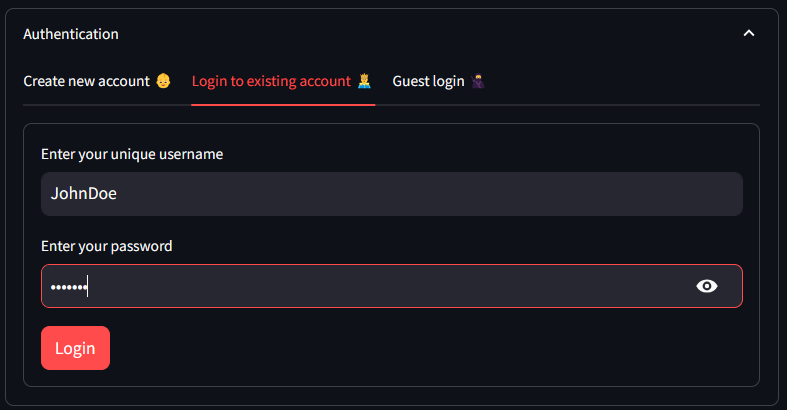
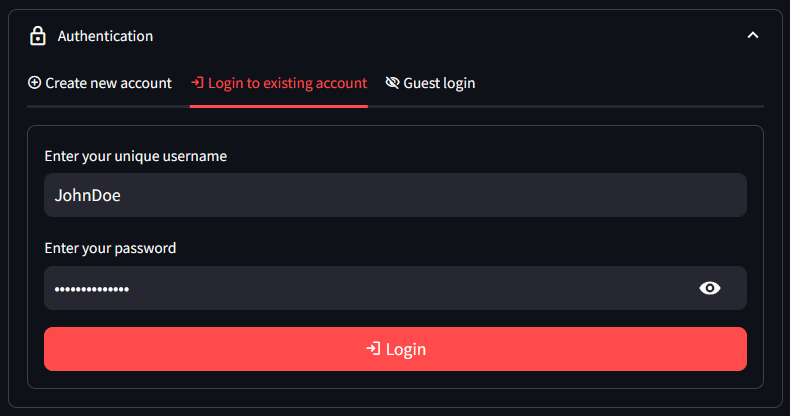
v1.2.0: Removed `*_success_message` params, UI and docstring updates

diff --git a/src/st_login_form/__init__.py b/src/st_login_form/__init__.py
@@ -4,7 +4,7 @@ from st_supabase_connection import SupabaseConnection
 from stqdm import stqdm
 from supabase import Client
 
-__version__ = "1.1.1"
+__version__ = "1.2.0"
 
 
 def validate_password(
@@ -19,8 +19,7 @@ def validate_password(
     return len(password) >= min_length and all(check(password) for check in required_chars)
 
 
-def login_success(message: str, username: str) -> None:
-    st.success(message)
+def login_success(username: str) -> None:
     st.session_state["authenticated"] = True
     st.session_state["username"] = username
 
@@ -45,34 +44,33 @@ class Authenticator(argon2.PasswordHasher):
 def login_form(
     *,
     title: str = "Authentication",
+    icon: str = ":material/lock:",
     user_tablename: str = "users",
     username_col: str = "username",
     password_col: str = "password",
     constrain_password: bool = True,
-    create_title: str = "Create new account :baby: ",
-    login_title: str = "Login to existing account :prince: ",
+    create_title: str = ":material/add_circle: Create new account",
+    login_title: str = ":material/login: Login to existing account",
     allow_guest: bool = True,
     allow_create: bool = True,
-    guest_title: str = "Guest login :ninja: ",
+    guest_title: str = ":material/visibility_off: Guest login",
     create_username_label: str = "Create a unique username",
     create_username_placeholder: str = None,
     create_username_help: str = None,
     create_password_label: str = "Create a password",
     create_password_placeholder: str = None,
-    create_password_help: str = "Password cannot be recovered if lost",
-    create_submit_label: str = "Create account",
-    create_success_message: str = "Account created and logged-in :tada:",
+    create_password_help: str = ":material/warning: Password cannot be recovered if lost",
+    create_submit_label: str = ":material/add_circle: Create account",
     login_username_label: str = "Enter your unique username",
     login_username_placeholder: str = None,
     login_username_help: str = None,
     login_password_label: str = "Enter your password",
     login_password_placeholder: str = None,
     login_password_help: str = None,
-    login_submit_label: str = "Login",
-    login_success_message: str = "Login succeeded :tada:",
-    login_error_message: str = "Wrong username/password :x: ",
-    password_constraint_check_fail_message: str = "Password must contain at least 8 characters, including one uppercase letter, one lowercase letter, one number, and one special character (`@$!%*?&_^#- `).",
-    guest_submit_label: str = "Guest login",
+    login_submit_label: str = ":material/login: Login",
+    login_error_message: str = ":material/lock: Wrong username/password",
+    password_constraint_check_fail_message: str = ":material/warning: Password must contain at least 8 characters, including one uppercase letter, one lowercase letter, one number, and one special character (`@$!%*?&_^#- `).",
+    guest_submit_label: str = ":material/visibility_off: Guest login",
 ) -> Client:
     """Creates a user login form in Streamlit apps.
 
@@ -82,37 +80,47 @@ def login_form(
 
     Arguments:
         title (str): The title of the login form. Default is "Authentication".
+        icon (str): The icon to display next to the title. Default is ":material/lock:".
         user_tablename (str): The name of the table in the database that stores user information. Default is "users".
         username_col (str): The name of the column in the user table that stores usernames. Default is "username".
         password_col (str): The name of the column in the user table that stores passwords. Default is "password".
-        constrain_password (bool): Whether to enforce password constraints (at least 8 characters, including one uppercase letter, one lowercase letter, one number, and one special character (`@$!%*?&_^#- `). Default is True.
-        create_title (str): The title of the create new account tab. Default is "Create new account :baby: ".
-        login_title (str): The title of the login to existing account tab. Default is "Login to existing account :prince: ".
+        constrain_password (bool): Whether to enforce password constraints (at least 8 characters, including one uppercase letter, one lowercase letter, one number, and one special character (`@$!%*?&_^#- `)). Default is True.
+        create_title (str): The title of the create new account tab. Default is ":material/add_circle: Create new account".
+        login_title (str): The title of the login to existing account tab. Default is ":material/login: Login to existing account".
         allow_guest (bool): Whether to allow guest login. Default is True.
         allow_create (bool): Whether to allow creating new accounts. Default is True.
-        guest_title (str): The title of the guest login tab. Default is "Guest login :ninja: ".
+        guest_title (str): The title of the guest login tab. Default is ":material/visibility_off: Guest login".
         create_username_label (str): The label for the create username input field. Default is "Create a unique username".
         create_username_placeholder (str): The placeholder text for the create username input field. Default is None.
         create_username_help (str): The help text for the create username input field. Default is None.
         create_password_label (str): The label for the create password input field. Default is "Create a password".
         create_password_placeholder (str): The placeholder text for the create password input field. Default is None.
-        create_password_help (str): The help text for the create password input field. Default is "Password cannot be recovered if lost".
-        create_submit_label (str): The label for the create account submit button. Default is "Create account".
-        create_success_message (str): The success message displayed after creating a new account. Default is "Account created and logged-in :tada:".
+        create_password_help (str): The help text for the create password input field. Default is ":material/warning: Password cannot be recovered if lost".
+        create_submit_label (str): The label for the create account submit button. Default is ":material/add_circle: Create account".
         login_username_label (str): The label for the login username input field. Default is "Enter your unique username".
         login_username_placeholder (str): The placeholder text for the login username input field. Default is None.
         login_username_help (str): The help text for the login username input field. Default is None.
         login_password_label (str): The label for the login password input field. Default is "Enter your password".
         login_password_placeholder (str): The placeholder text for the login password input field. Default is None.
         login_password_help (str): The help text for the login password input field. Default is None.
-        login_submit_label (str): The label for the login submit button. Default is "Login".
-        login_success_message (str): The success message displayed after a successful login. Default is "Login succeeded :tada:".
-        login_error_message (str): The error message displayed when the username or password is incorrect. Default is "Wrong username/password :x: ".
-        password_constraint_check_fail_message (str): The error message displayed when the password does not meet the constraints. Default is "Password must contain at least 8 characters, including one uppercase letter, one lowercase letter, one number, and one special character (`@$!%*?&_^#- `).".
-        guest_submit_label (str): The label for the guest login button. Default is "Guest login".
+        login_submit_label (str): The label for the login submit button. Default is ":material/login: Login".
+        login_error_message (str): The error message displayed when the username or password is incorrect. Default is ":material/lock: Wrong username/password".
+        password_constraint_check_fail_message (str): The error message displayed when the password does not meet the constraints. Default is ":material/warning: Password must contain at least 8 characters, including one uppercase letter, one lowercase letter, one number, and one special character (`@$!%*?&_^#- `).".
+        guest_submit_label (str): The label for the guest login button. Default is ":material/visibility_off: Guest login".
 
     Returns:
         Supabase.client: The client instance for performing downstream supabase operations.
+
+    Example:
+    >>> client = st_login_form.login_form(user_tablename="demo_users")
+
+    >>> if st.session_state["authenticated"]:
+    >>>     if st.session_state["username"]:
+    >>>         st.success(f"Welcome {st.session_state['username']}")
+    >>>     else:
+    >>>         st.success("Welcome guest")
+    >>> else:
+    >>>     st.error("Not authenticated")
     """
 
     # Initialize the Supabase connection
@@ -135,7 +143,7 @@ def login_form(
     if "username" not in st.session_state:
         st.session_state["username"] = None
 
-    with st.expander(title, expanded=not st.session_state["authenticated"]):
+    with st.expander(title, icon=icon, expanded=not st.session_state["authenticated"]):
         if allow_guest:
             if allow_create:
                 create_tab, login_tab, guest_tab = st.tabs(
@@ -180,6 +188,7 @@ def login_form(
                         label=create_submit_label,
                         type="primary",
                         disabled=st.session_state["authenticated"],
+                        use_container_width=True,
                     ):
                         if constrain_password and not validate_password(password):
                             st.error(password_constraint_check_fail_message)
@@ -193,7 +202,7 @@ def login_form(
                             st.error(e.message)
                             st.session_state["authenticated"] = False
                         else:
-                            login_success(create_success_message, username)
+                            login_success(username)
                             st.rerun()
 
         # Login to existing account
@@ -218,6 +227,7 @@ def login_form(
                     label=login_submit_label,
                     disabled=st.session_state["authenticated"],
                     type="primary",
+                    use_container_width=True,
                 ):
                     response = (
                         client.table(user_tablename)
@@ -235,7 +245,7 @@ def login_form(
 
                         if auth.verify_password(db_password, password):
                             # Verify hashed password
-                            login_success(login_success_message, username)
+                            login_success(username)
                             # This step is recommended by the argon2-cffi documentation
                             if auth.check_needs_rehash(db_password):
                                 _ = rehash_pwd_in_db(password, username)
@@ -255,6 +265,7 @@ def login_form(
                     label=guest_submit_label,
                     type="primary",
                     disabled=st.session_state["authenticated"],
+                    use_container_width=True,
                 ):
                     st.session_state["authenticated"] = True
                     st.rerun()

diff --git a/demo.py b/demo.py
@@ -65,23 +65,31 @@ try:
         )
 
     # ---------- MAIN PAGE ----------
-    st.title("🔐 st-login-form demo")
+    st.title("🔐 `st-login-form` demo")
 
     st.write(
         "This app shows how you can use [`st-login-form`](https://github.com/SiddhantSadangi/st_login_form) to create Supabase connected user-login forms for Streamlit apps."
     )
 
-    st.write("1. Install")
-    st.code("pip install st-login-form", language="bash")
-    st.write("2. Import")
-    st.code("from st_login_form import login_form", language="python")
-    st.write("3. Use")
-    st.code("client = login_form()", language="python")
-    with st.expander("💡 `login_form()` API reference", expanded=False):
+    with st.expander("Installation", icon=":material/install_desktop:", expanded=False):
+        st.write("1. Install")
+        st.code("pip install st-login-form", language="bash")
+        st.write("2. Import")
+        st.code("from st_login_form import login_form", language="python")
+        st.write("3. Use")
+        st.code("client = login_form()", language="python")
+        st.info(
+            "Detailed installation instructions [here](https://github.com/SiddhantSadangi/st_login_form?tab=readme-ov-file#building_construction-installation)."
+        )
+        st.write(
+            "`login_form()` creates the below form and returns the `Supabase.client` instance that can then be used to perform downstream supabase operations"
+        )
+    with st.expander(
+        "`login_form()` API reference",
+        icon=":material/lightbulb:",
+        expanded=False,
+    ):
         st.write(st_login_form.login_form.__doc__)
-    st.write(
-        "`login_form()` creates the below form and returns the `Supabase.client` instance that can then be used to perform downstream supabase operations"
-    )
 
     client = st_login_form.login_form(user_tablename="demo_users")
 

diff --git a/README.md b/README.md
@@ -102,37 +102,36 @@ To bulk-update all existing plaintext passwords in the table, use the `hash_curr
 - `login_form()`
 
   ```python
-  def login_form(
+    def login_form(
       *,
       title: str = "Authentication",
+      icon: str = ":material/lock:",
       user_tablename: str = "users",
       username_col: str = "username",
       password_col: str = "password",
       constrain_password: bool = True,
-      create_title: str = "Create new account :baby: ",
-      login_title: str = "Login to existing account :prince: ",
+      create_title: str = ":material/add_circle: Create new account",
+      login_title: str = ":material/login: Login to existing account",
       allow_guest: bool = True,
       allow_create: bool = True,
-      guest_title: str = "Guest login :ninja: ",
+      guest_title: str = ":material/visibility_off: Guest login",
       create_username_label: str = "Create a unique username",
       create_username_placeholder: str = None,
       create_username_help: str = None,
       create_password_label: str = "Create a password",
       create_password_placeholder: str = None,
-      create_password_help: str = "Password cannot be recovered if lost",
-      create_submit_label: str = "Create account",
-      create_success_message: str = "Account created and logged-in :tada:",
+      create_password_help: str = ":material/warning: Password cannot be recovered if lost",
+      create_submit_label: str = ":material/add_circle: Create account",
       login_username_label: str = "Enter your unique username",
       login_username_placeholder: str = None,
       login_username_help: str = None,
       login_password_label: str = "Enter your password",
       login_password_placeholder: str = None,
       login_password_help: str = None,
-      login_submit_label: str = "Login",
-      login_success_message: str = "Login succeeded :tada:",
-      login_error_message: str = "Wrong username/password :x: ",
-      password_constraint_check_fail_message: str = "Password must contain at least 8 characters, including one uppercase letter, one lowercase letter, one number, and one special character (`@$!%*?&_^#- `).",
-      guest_submit_label: str = "Guest login",
+      login_submit_label: str = ":material/login: Login",
+      login_error_message: str = ":material/lock: Wrong username/password",
+      password_constraint_check_fail_message: str = ":material/warning: Password must contain at least 8 characters, including one uppercase letter, one lowercase letter, one number, and one special character (`@$!%*?&_^#- `).",
+      guest_submit_label: str = ":material/visibility_off: Guest login",
   ) -> Client:
       """Creates a user login form in Streamlit apps.
 
@@ -142,34 +141,33 @@ To bulk-update all existing plaintext passwords in the table, use the `hash_curr
 
       Arguments:
           title (str): The title of the login form. Default is "Authentication".
+          icon (str): The icon to display next to the title. Default is ":material/lock:".
           user_tablename (str): The name of the table in the database that stores user information. Default is "users".
           username_col (str): The name of the column in the user table that stores usernames. Default is "username".
           password_col (str): The name of the column in the user table that stores passwords. Default is "password".
-          constrain_password (bool): Whether to enforce password constraints (at least 8 characters, including one uppercase letter, one lowercase letter, one number, and one special character (`@$!%*?&_^#- `). Default is True.
-          create_title (str): The title of the create new account tab. Default is "Create new account :baby: ".
-          login_title (str): The title of the login to existing account tab. Default is "Login to existing account :prince: ".
+          constrain_password (bool): Whether to enforce password constraints (at least 8 characters, including one uppercase letter, one lowercase letter, one number, and one special character (`@$!%*?&_^#- `)). Default is True.
+          create_title (str): The title of the create new account tab. Default is ":material/add_circle: Create new account".
+          login_title (str): The title of the login to existing account tab. Default is ":material/login: Login to existing account".
           allow_guest (bool): Whether to allow guest login. Default is True.
           allow_create (bool): Whether to allow creating new accounts. Default is True.
-          guest_title (str): The title of the guest login tab. Default is "Guest login :ninja: ".
+          guest_title (str): The title of the guest login tab. Default is ":material/visibility_off: Guest login".
           create_username_label (str): The label for the create username input field. Default is "Create a unique username".
           create_username_placeholder (str): The placeholder text for the create username input field. Default is None.
           create_username_help (str): The help text for the create username input field. Default is None.
           create_password_label (str): The label for the create password input field. Default is "Create a password".
           create_password_placeholder (str): The placeholder text for the create password input field. Default is None.
-          create_password_help (str): The help text for the create password input field. Default is "Password cannot be recovered if lost".
-          create_submit_label (str): The label for the create account submit button. Default is "Create account".
-          create_success_message (str): The success message displayed after creating a new account. Default is "Account created and logged-in :tada:".
+          create_password_help (str): The help text for the create password input field. Default is ":material/warning: Password cannot be recovered if lost".
+          create_submit_label (str): The label for the create account submit button. Default is ":material/add_circle: Create account".
           login_username_label (str): The label for the login username input field. Default is "Enter your unique username".
           login_username_placeholder (str): The placeholder text for the login username input field. Default is None.
           login_username_help (str): The help text for the login username input field. Default is None.
           login_password_label (str): The label for the login password input field. Default is "Enter your password".
           login_password_placeholder (str): The placeholder text for the login password input field. Default is None.
           login_password_help (str): The help text for the login password input field. Default is None.
-          login_submit_label (str): The label for the login submit button. Default is "Login".
-          login_success_message (str): The success message displayed after a successful login. Default is "Login succeeded :tada:".
-          login_error_message (str): The error message displayed when the username or password is incorrect. Default is "Wrong username/password :x: ".
-          password_constraint_check_fail_message (str): The error message displayed when the password does not meet the constraints. Default is "Password must contain at least 8 characters, including one uppercase letter, one lowercase letter, one number, and one special character (`@$!%*?&_^#- `).".
-          guest_submit_label (str): The label for the guest login button. Default is "Guest login".
+          login_submit_label (str): The label for the login submit button. Default is ":material/login: Login".
+          login_error_message (str): The error message displayed when the username or password is incorrect. Default is ":material/lock: Wrong username/password".
+          password_constraint_check_fail_message (str): The error message displayed when the password does not meet the constraints. Default is ":material/warning: Password must contain at least 8 characters, including one uppercase letter, one lowercase letter, one number, and one special character (`@$!%*?&_^#- `).".
+          guest_submit_label (str): The label for the guest login button. Default is ":material/visibility_off: Guest login".
 
       Returns:
           Supabase.client: The client instance for performing downstream supabase operations.
